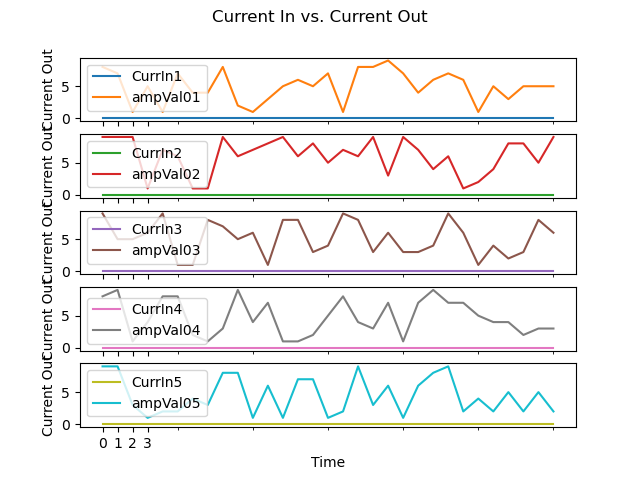
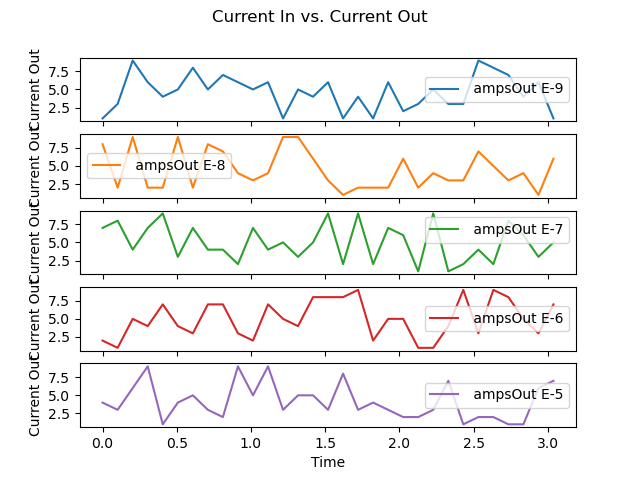
Update

Changed region(s): [[0.0312, 0.0938, 0.9062, 0.9375], [0.5625, 0.2812, 0.5938, 0.3125], [0.4375, 0.4375, 0.4688, 0.4688]]

diff --git a/Python/picoTest.py b/Python/picoTest.py
@@ -51,13 +51,11 @@ currentInc = 11   #int(input('How many steps for current?'))
 voltInc = 34      #int(input('How many steps for Voltage?'))
 
 #smu.apply_current(smu.smua, 0)
-cOut = "CurrOut000" 
-cIn = "CurrIn000"
-ampVal = "ampVal01"
-pltX = "CurrIn1"
-pltY = "pltY"
+cOut = "CS000" 
+pltY = " ampsOut E-9"
+pltX = " ampsIn E-9"
 picLoc = "C:\\Users\\jpew\\AppData\\Local\\miniconda3\\envs\\testequ\\RTSeval\\Python\\Data\\csCharacterization\\"
-picName = "cs000"
+
 
 time.sleep(1)
 for c in range(colNum):
@@ -65,12 +63,6 @@ for c in range(colNum):
         cOut = re.sub(r'[0-9]+$',
              lambda x: f"{str(int(x.group())+1).zfill(len(x.group()))}",    # increments the number in the column name
              cOut)
-        cIn = re.sub(r'[0-9]+$',
-             lambda x: f"{str(int(x.group())+1).zfill(len(x.group()))}",    # increments the number in the column name
-             cIn)
-        picName = re.sub(r'[0-9]+$',
-             lambda x: f"{str(int(x.group())+1).zfill(len(x.group()))}",    # increments the number in the column name
-             picName)
     WC = write_cmd(str(2))                                                  # increments the column to test
     commandRX = pico.read_until().strip().decode()
     time.sleep(.5)
@@ -86,40 +78,40 @@ for c in range(colNum):
             startT = round(time.perf_counter(), 4)
             while round(time.perf_counter(), 4) - startT <= 3.1:                         # checks if the run time has reached 60 sec
                 currentTime = round(time.perf_counter(), 4)-startT
-                #if counter == 0:
-                csData.at[row, 'Time'] = currentTime
-                pltData.at[row, pltX] = currIn # smu.smua.measurei()
-                pltData.at[row, str(ampVal)] = random.randint(1, 9)
+                if counter == 0:
+                    pltData.at[row, 'Time'] = currentTime
+                #pltData.at[row, pltX] = currIn # smu.smua.measurei()                    # current into current Source
+                pltData.at[row, pltY] = random.randint(1, 9)                     # current out of current source
                 row = row + 1
-                time.sleep(.1000)
-            csData[str(cOut+ampVal)] = pltData[str(ampVal)]
+                time.sleep(.1000)            
+            csData['Time'] = pltData['Time']
+            csData[str(cOut+pltY)] = pltData[str(pltY)]
             if a < 4:
-                ampVal = re.sub(r'[0-9]+$',
-                lambda x: f"{str(int(x.group())+1).zfill(len(x.group()))}",    # increments the number in the column name
-                ampVal)
+                pltY = re.sub(r'[0-9]+$',
+                lambda x: f"{str(int(x.group())-1).zfill(len(x.group()))}",    # increments the number in the column name
+                pltY)
                 pltX = re.sub(r'[0-9]+$',
-                lambda x: f"{str(int(x.group())+1).zfill(len(x.group()))}",    # increments the number in the column name
+                lambda x: f"{str(int(x.group())-1).zfill(len(x.group()))}",    # increments the number in the column name
                 pltX)
             row = 0
             power = power - 1
         power = 9
-        pltX = 'CurrIn1'            
-        ampVal = "ampVal01"
+        pltX = ' ampsIn E-9'            
+        pltY = " ampsOut E-9"
         print(pltData)
-        pltData.plot(xlabel="Time", ylabel="Current Out", sharey=True, title="Current In vs. Current Out", legend=True, subplots=[('CurrIn1','ampVal01'),('CurrIn2','ampVal02'),('CurrIn3','ampVal03'),
-                                ('CurrIn4','ampVal04'),('CurrIn5','ampVal05')])
-        #ax=[pltData.Time1,pltData.Time2,pltData.Time3,pltData.Time4,pltData.Time5], 
-        #plt.title("Current In vs Current Out")
-        plt.savefig(str(picLoc) + str(picName) + '.png')
+        pltData.plot(x= 'Time', xlabel="Time", ylabel="Current Out", sharey=True, title="Current In vs. Current Out", legend=True,
+                    subplots=True)
+        # pltData.plot(x= 'Time', xlabel="Time", ylabel="Current Out", sharey=True, title="Current In vs. Current Out", legend=True,
+        #             subplots=[(' ampsIn E-9',' ampsOut E-9'),(' ampsIn E-8',' ampsOut E-8'),(' ampsIn E-7',' ampsOut E-7'), 
+        #             (' ampsIn E-6',' ampsOut E-6'),(' ampsIn E-5',' ampsOut E-5')])
+        plt.savefig(str(picLoc) + str(cOut) + '.png')
         fig = plt.show(block = False)
-        #pltData.to_csv('C:\\Users\\jpew\\AppData\\Local\\miniconda3\\envs\\testequ\\RTSeval\\Python\\Data\\csCharacterization\\csCharData'+ampVal+'.csv')
-        plt.pause(3)
+        plt.pause(5)
         plt.close(fig)
-    RFID = b''
+    commandRX = 0
     counter = counter + 1    
     colSelect = colSelect + 1
     time.sleep(.1)
-#plt.show()        
 print(csData)
 csData.to_csv('C:\\Users\\jpew\\AppData\\Local\\miniconda3\\envs\\testequ\\RTSeval\\Python\\Data\\csCharacterization\\cscharData.csv')
 # csData.to_csv('~/miniconda3/envs/testequ/RTSeval/Python/Data/cscharData.csv')
